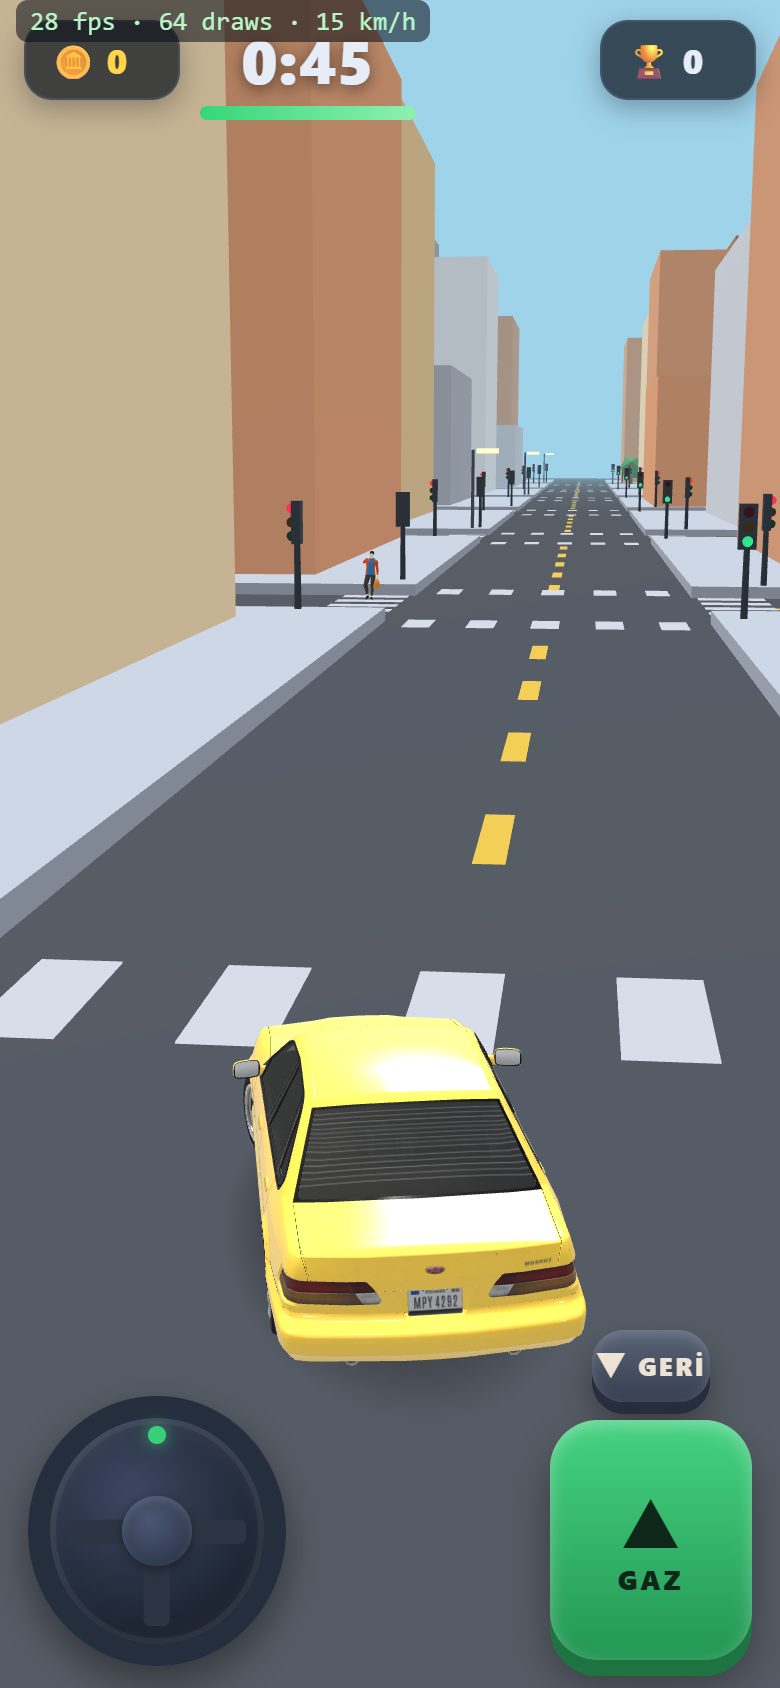
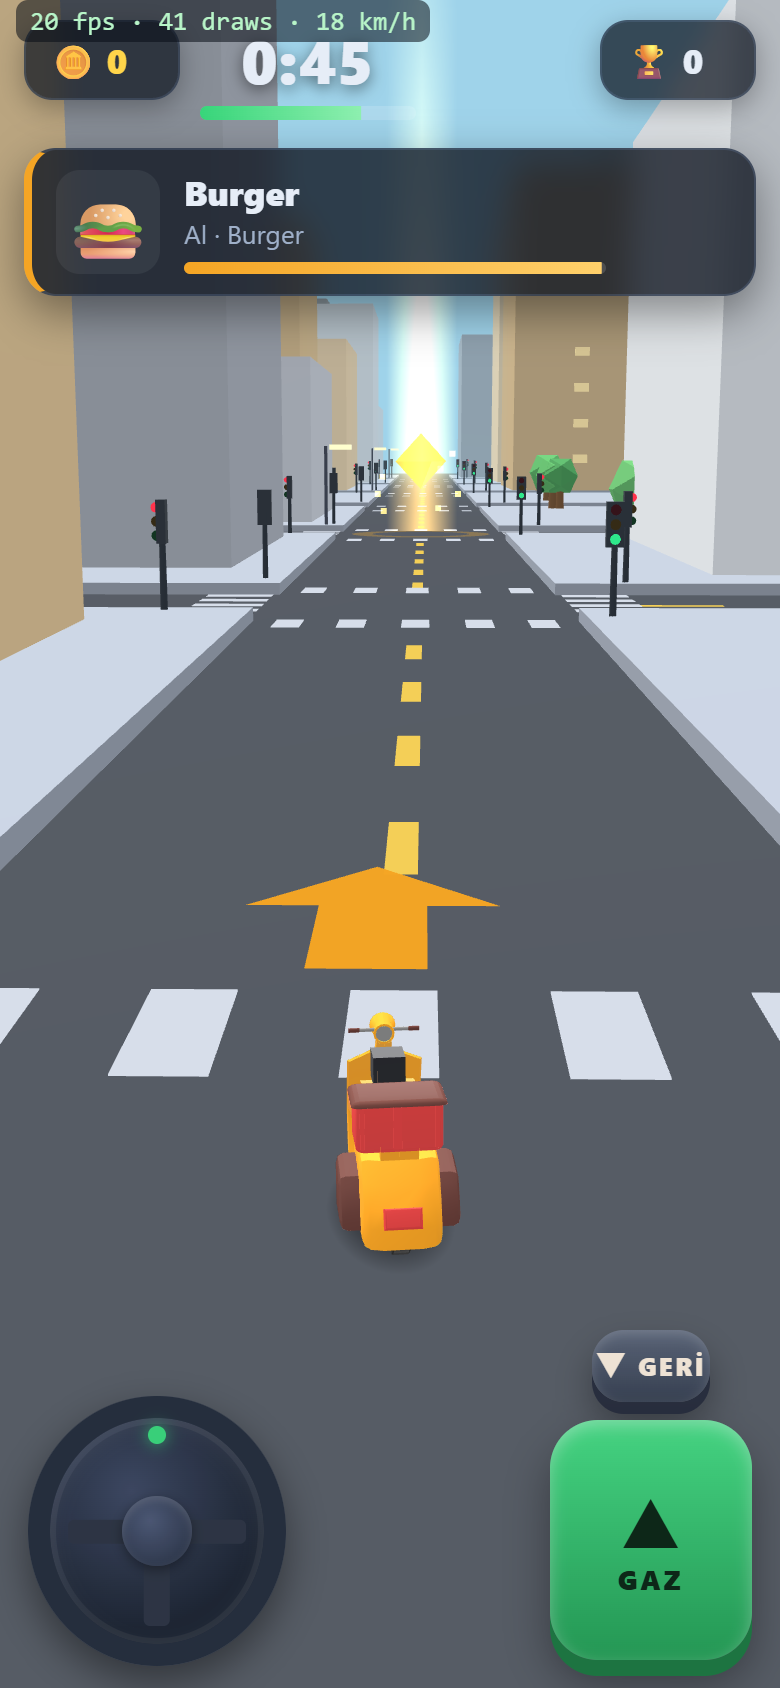
Save current development tuning and plan

diff --git a/src/core/Balance.ts b/src/core/Balance.ts
@@ -196,8 +196,8 @@ export const Econ = {
   payPerKm: 55, // coins per km of source→dest distance
   payComboStep: 0.15, // +15% pay per consecutive on-time delivery (streak)
   payComboCap: 2.5, // cap on the streak pay multiplier
-  timePerKm: 42, // seconds of time limit granted per km (tune for feel)
-  timeMin: 25, // floor on a job's time limit
+  timePerKm: 90, // seconds of time limit granted per km (tune for feel)
+  timeMin: 45, // floor on a job's time limit
   // Logarithmic late penalty: grows fast then flattens, never ruinous —
   //   penalty = round(min(penaltyBase, penaltyK * ln(1 + secondsLate))) * (special ? specialPenaltyMul : 1)
   penaltyK: 22,
@@ -246,7 +246,7 @@ export const Decor = {
  */
 export const Police = {
   /** Number of patrol cars roaming FREE_CITY. */
-  count: 3,
+  count: 1,
   /** Cruising speed while patrolling (m/s). */
   patrolSpeed: 9,
   /** Pursuit speed while chasing (m/s ≈ 72 km/h) — below the player's ~97 km/h

diff --git a/docs/PROJE_TARAMA_VE_PLAN.md b/docs/PROJE_TARAMA_VE_PLAN.md
@@ -151,3 +151,51 @@ risk, ve doğrulama.
 **Lane kuralı:** Sonnet ajanları `boot.ts` / `Balance.ts` / `EventBus.ts`'e
 dokunmaz; entegrasyon Opus'ta. Codex ayrı lane'de (yeni dosya ekler; Market + şehir
 canlandırma + asset export) — `CODEX_WORK_LOG.md`.
+
+---
+
+## İŞ F — SERBEST order akışı düzeltmeleri (kullanıcı, 2026-07-20 · ertelendi)
+
+Kullanıcı oynarken bildirdi; **sonra yapılacak** (kullanıcı "plana koy, sonra
+yaparız" dedi).
+
+### F1 — Her POI'de en az 1 order olmalı  · P1
+**Belirti:** "Bazı noktalardan order alabiliyorum, her noktada en az 1 tane olmalı."
+Stop-to-order paneli yalnız **source** POI'lerde açılıyor (7 source / 5 dest tanımı,
+18 POI'ye rastgele dağılıyor); dest POI'ler (🏠🏢) görsel olarak aynı ama order
+sunmuyor → oyuncu bazı noktalarda liste bulamıyor.
+**Kök neden:** `JobBoard.refresh()` yalnız `p.isSource` POI'lere iş üretiyor;
+`tickStopZone` de yalnız `p.isSource` yakınında paneli açıyor.
+**Uygulama (net):**
+- `refresh()`: `sources` yerine **TÜM** `pois.list` üzerinde dön; her POI'ye
+  `ordersPerPoiMin..Max` iş; hedef = **başka herhangi bir POI** (distinct pick,
+  ör. `all[(idx+1+rng.int(0,len-2))%len]`).
+- `tickStopZone()`: `p.isSource &&` filtresini kaldır → herhangi bir POI'de durunca
+  panel açılır.
+- `ensureSourceAndDestCoverage()`'ı kaldır (artık gereksiz; `if (list.length<2) return`
+  yeterli). `isSource` alanı yalnız görsel/venue flavor olarak kalır.
+- Dosyalar: `systems/JobBoard.ts` (yalnız). Tema notu: ev/ofis de order üretecek —
+  kullanıcı "her nokta çalışsın" istiyor, kabul.
+- Not: bu, W2'de eklenen `ensureSourceAndDestCoverage` (T#4) mantığını geçersiz kılar.
+
+### F2 — Order süresi mesafeyle orantılı + gerçekçi taban  · P1
+**Belirti:** "Süreler çok sıkıntı, uzaklıkla orantılı olmalı; yolun yarısında süre
+bitiyor, yetişemiyorum" (RUSH modunda da hissediliyor).
+**Kök neden (SERBEST):** `Econ.timePerKm = 42 s/km`, `timeMin = 25 s`. 42 s/km ≈
+**24 m/s (86 km/h) ortalama** varsayar — ama şehirde dönüş/trafik/polisle gerçek
+ortalama ~8–12 m/s. 1 km Manhattan teslimat gerçekte ~100 s sürerken 42 s veriliyor
+→ yarı yolda bitiyor.
+**Uygulama (net):**
+- `Balance.Econ.timePerKm`'i gerçekçi şehir ortalamasına çek (~**110–140 s/km**),
+  `timeMin`'i yükselt (25 → ~**45–60 s**). Kural: `timeLimit ≥ (mesafe /
+  gerçekçiOrtHız) × güvenlik(~1.6)`. FREE_CITY mesafeleri ~0.3–1.5 km (Manhattan)
+  olduğu için süreler ~50–210 s bandına oturur.
+- **RUSH tarafını da kontrol et:** kullanıcı "rush modunda da" dedi. RUSH order
+  timer'ı (`world/Orders3D.ts` + `systems/RunState.ts` + `Balance.Run/Scoring`)
+  mesafe-farkında mı, yeterince cömert mi? Değilse aynı kuralı uygula (order
+  süresi ↔ pickup→dropoff mesafesi, yetişilebilir margin ile).
+- Dosyalar: `core/Balance.ts` (Econ + gerekiyorsa Run/Scoring), muhtemelen
+  `world/Orders3D.ts` / `systems/RunState.ts` (RUSH süre hesabı). **Opus lane**
+  (Balance).
+- Gerçek cihaz/feel testi: teslimat başladığında saat, ortalama hızla yetişilecek
+  şekilde ayarlanmalı (oyun-içi tune).
